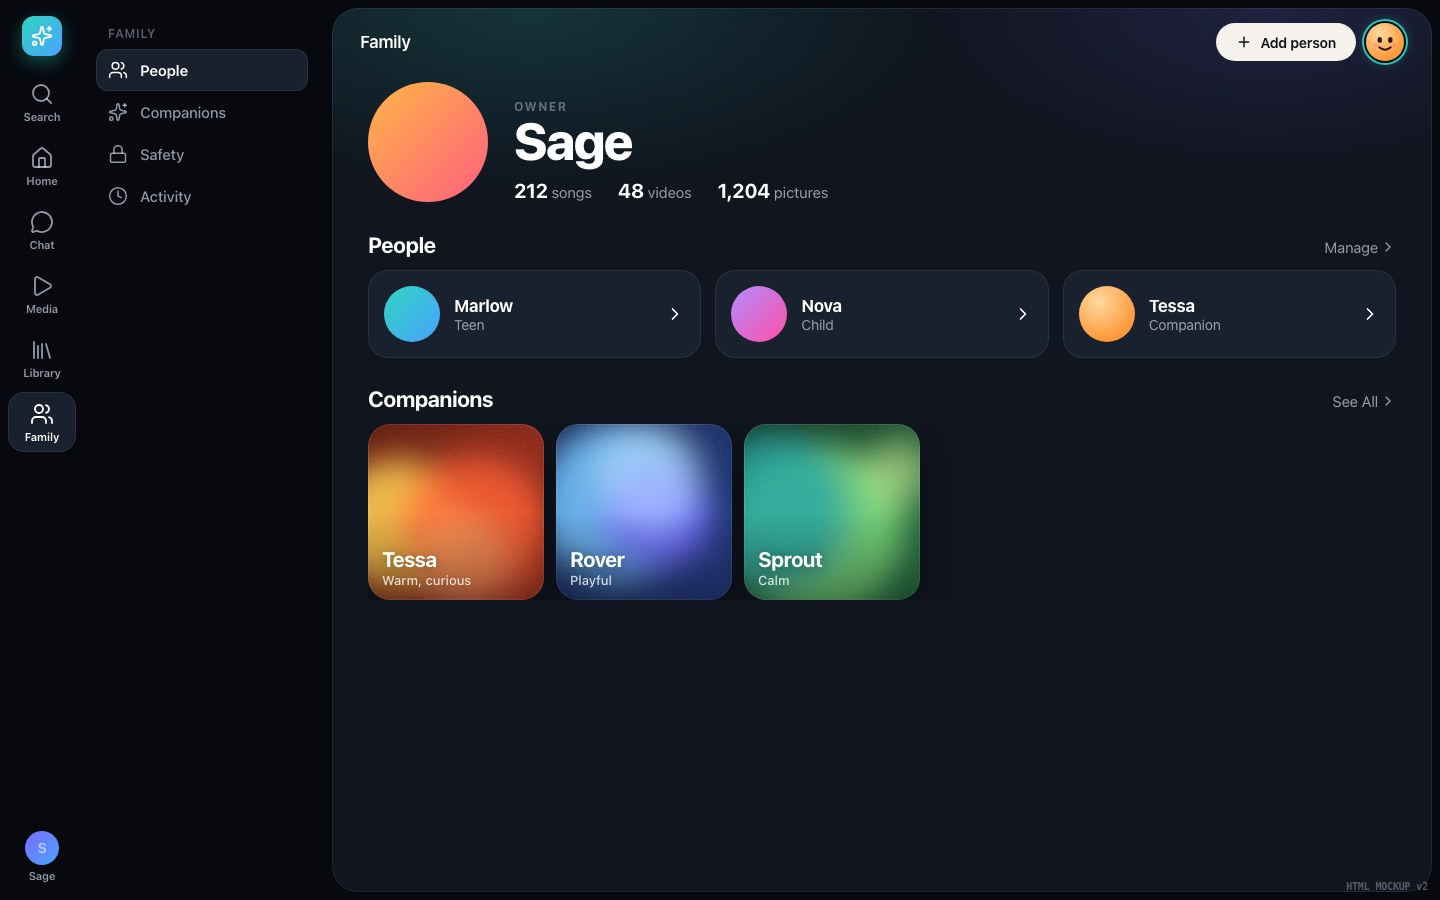
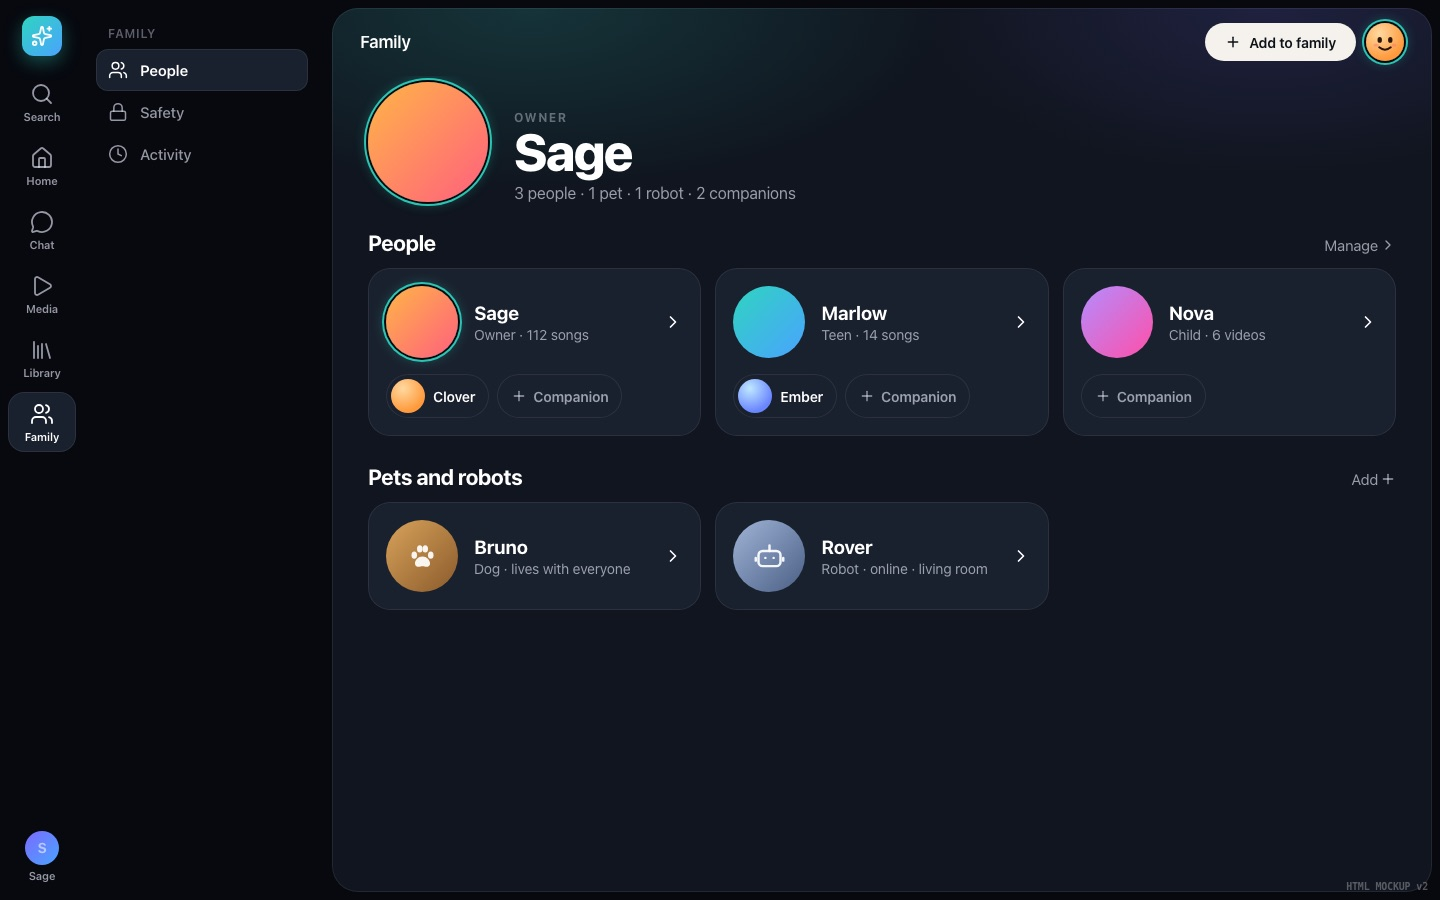
PRO-LOOK-01: Family page lists companions under their member; pets and robots are family

diff --git a/docs/design/assets/pro-look-2026-11-08/build.py b/docs/design/assets/pro-look-2026-11-08/build.py
@@ -545,7 +545,7 @@ write('phone-notifications',phone(body))
 print('create ok')
 
 # ---------- PROFILE + FAMILY (Instagram / TikTok style profile pages) 2026-11-08
-GR={'Sage':'linear-gradient(135deg,#ffb547,#ff5f7e)','Marlow':'linear-gradient(135deg,#2fd4c0,#4aa3ff)','Nova':'linear-gradient(135deg,#b48cff,#ff4fa8)','Tessa':'radial-gradient(circle at 35% 28%,#ffd9a0,#ff9a3c 70%)'}
+GR={'Sage':'linear-gradient(135deg,#ffb547,#ff5f7e)','Marlow':'linear-gradient(135deg,#2fd4c0,#4aa3ff)','Nova':'linear-gradient(135deg,#b48cff,#ff4fa8)','Clover':'radial-gradient(circle at 35% 28%,#ffd9a0,#ff9a3c 70%)'}
 def pav(n,size,ring=False):
     return f'<div class="av {"ring" if ring else ""}" style="width:{size}px;height:{size}px;background:{GR[n]}"></div>'
 def stat(n,l,big=False):
@@ -566,7 +566,7 @@ body=f'''<div class="scroll" style="padding-bottom:110px"><div style="display:fl
 <div style="display:flex;gap:22px;align-items:center;margin-top:14px">{pav("Marlow",92,True)}<div style="flex:1"><div style="font-size:12px;font-weight:700;letter-spacing:.12em;color:var(--fg3)">TEEN</div><div style="display:flex;justify-content:space-between;margin-top:8px">{stat("14","songs")}{stat("9","videos")}{stat("62","pictures")}</div></div></div>
 <div style="margin-top:14px;font-size:15px;color:var(--fg2);line-height:1.4">Makes beats after school. Likes rainy porch songs and slow mornings.</div>
 <div style="display:flex;gap:10px;margin-top:16px"><div class="pill inv" style="flex:1;justify-content:center;height:44px;font-size:16px">Edit profile</div><div class="pill q" style="flex:1;justify-content:center;height:44px;font-size:16px">Share</div><div class="pill q" style="width:48px;height:44px;justify-content:center;padding:0">{ic("settings",20,1.9)}</div></div>
-<div class="strip" style="margin-top:20px;gap:6px">{hl("Tessa","ember",301)}{hl("Favorites","violet",302)}{hl("Porch","forest",303)}{hl("School","ocean",304)}{hl("New","slate",305)}</div>
+<div class="strip" style="margin-top:20px;gap:6px">{hl("Clover","ember",301)}{hl("Favorites","violet",302)}{hl("Porch","forest",303)}{hl("School","ocean",304)}{hl("New","slate",305)}</div>
 {tabs(["grid-2x2","play","music","users"],0)}
 <div style="margin:0 -16px">{grid(3,12)}</div></div>{tabbar("Family",(('house','Home'),('message-circle','Chat'),('play','Media'),('library','Library'),('users','Family')))}'''
 write('phone-profile',phone(body))
@@ -586,8 +586,42 @@ inner=f'''{rail("Family")}{col("FAMILY",[("users","People"),("sparkles","Compani
 <div style="display:flex;gap:44px;margin-top:14px">{stat("14","songs",True)}{stat("9","videos",True)}{stat("62","pictures",True)}</div>
 <div style="margin-top:14px;font-size:16px;color:var(--fg2);max-width:560px;line-height:1.45">Makes beats after school. Likes rainy porch songs and slow mornings.</div>
 <div style="display:flex;gap:10px;margin-top:18px"><span class="pill inv" style="height:44px;padding:0 24px">Edit profile</span><span class="pill q" style="height:44px;padding:0 24px">Share</span><span class="pill q" style="height:44px;width:48px;justify-content:center;padding:0">{ic("settings",20,1.9)}</span></div></div></div>
-<div style="display:flex;gap:10px;margin-top:26px">{hl("Tessa","ember",301,72)}{hl("Favorites","violet",302,72)}{hl("Porch","forest",303,72)}{hl("School","ocean",304,72)}</div>
+<div style="display:flex;gap:10px;margin-top:26px">{hl("Clover","ember",301,72)}{hl("Favorites","violet",302,72)}{hl("Porch","forest",303,72)}{hl("School","ocean",304,72)}</div>
 {tabs(["grid-2x2","play","music","users"],0)}
 <div style="margin-top:3px;width:100%">{grid(5,10)}</div></div></div>'''
 write('desktop-profile',win(inner))
 print('profile ok')
+
+# ---------- FAMILY v2: companions live under the member who has them; pets and robots are family (2026-11-08)
+GR['Bruno']='linear-gradient(135deg,#d9a35b,#8a5a2b)'; GR['Rover']='linear-gradient(135deg,#9fb4d6,#4b5f86)'; GR['Ember']='radial-gradient(circle at 35% 28%,#bfe8ff,#6a86ff 70%)'
+PAW='<svg width="{s}" height="{s}" viewBox="0 0 24 24" fill="currentColor"><ellipse cx="6" cy="11" rx="2" ry="2.6"/><ellipse cx="10" cy="6.5" rx="2" ry="2.6"/><ellipse cx="14" cy="6.5" rx="2" ry="2.6"/><ellipse cx="18" cy="11" rx="2" ry="2.6"/><path d="M12 12c-3 0-5.5 2.6-5.5 5 0 1.6 1.3 2.5 2.7 2.5 1 0 1.7-.5 2.8-.5s1.8.5 2.8.5c1.4 0 2.7-.9 2.7-2.5 0-2.4-2.5-5-5.5-5z"/></svg>'
+BOT='<svg width="{s}" height="{s}" viewBox="0 0 24 24" fill="none" stroke="currentColor" stroke-width="1.8" stroke-linecap="round" stroke-linejoin="round"><rect x="4" y="8" width="16" height="11" rx="3"/><path d="M12 8V4M9 13h.01M15 13h.01M2 13v2M22 13v2"/></svg>'
+def kindav(n,kind,size):
+    glyph=(PAW if kind=='pet' else BOT).format(s=int(size*.46))
+    return f'<div class="av" style="width:{size}px;height:{size}px;background:{GR[n]};display:flex;align-items:center;justify-content:center;color:rgba(255,255,255,.92)">{glyph}</div>'
+def cchip(n,sz=34):
+    return f'<div style="display:flex;align-items:center;gap:8px;height:44px;border-radius:999px;padding:0 14px 0 5px;background:var(--s2);box-shadow:inset 0 0 0 1px var(--hair);font-size:14px;font-weight:600;flex:none"><div class="av" style="width:{sz}px;height:{sz}px;background:{GR[n]}"></div>{n}</div>'
+def addc(): return f'<div style="display:flex;align-items:center;gap:6px;height:44px;border-radius:999px;padding:0 14px;color:var(--fg2);font-size:14px;font-weight:600;box-shadow:inset 0 0 0 1px var(--hair);flex:none">{ic("plus",16,2)}Companion</div>'
+def member(n,role,stat,comps,ring=False,kind=None,wide=False):
+    av=kindav(n,kind,64) if kind else pav(n,64,ring)
+    cs=''.join(cchip(c) for c in comps)+(addc() if not kind else '')
+    if kind and not comps: cs=''
+    cr=f'<div style="display:flex;gap:8px;margin-top:14px;flex-wrap:wrap">{cs}</div>' if cs else ''
+    return f'<div style="background:var(--s1);box-shadow:inset 0 0 0 1px var(--hair);padding:14px;border-radius:22px;margin-bottom:10px"><div style="display:flex;gap:14px;align-items:center">{av}<div style="flex:1;min-width:0"><b style="font-size:18px">{n}</b><div style="font-size:14px;color:var(--fg2);margin-top:2px">{role} · {stat}</div></div>{ic("chevron-right",20,2)}</div>{cr}</div>'
+TAB=(('house','Home'),('message-circle','Chat'),('play','Media'),('library','Library'),('users','Family'))
+body=f'''<div class="scroll" style="padding-bottom:110px"><div style="display:flex;justify-content:space-between;align-items:center;height:44px"><div class="circ glass">{ic("panel-left",22,1.8)}</div><div style="display:flex;gap:10px;align-items:center"><div class="circ glass">{ic("plus",22,2)}</div>{companion(36)}</div></div>
+<h1 class="t" style="margin-top:14px">Family</h1><div style="color:var(--fg2);font-size:16px;margin-top:4px">3 people · 1 pet · 1 robot · 2 companions</div>
+<div class="strip" style="margin-top:20px;gap:8px;padding:4px 0 4px 4px">{"".join(f'<div style="text-align:center;width:84px;flex:none">{pav(n,68,n=="Sage")}<div style="font-size:14px;font-weight:600;margin-top:8px">{n}</div></div>' for n in ["Sage","Marlow","Nova"])}<div style="text-align:center;width:84px;flex:none">{kindav("Bruno","pet",68)}<div style="font-size:14px;font-weight:600;margin-top:8px">Bruno</div></div><div style="text-align:center;width:84px;flex:none">{kindav("Rover","bot",68)}<div style="font-size:14px;font-weight:600;margin-top:8px">Rover</div></div></div>
+<div class="sh"><h2>People</h2><a>Manage {ic("chevron-right",16,2)}</a></div>{member("Sage","Owner","112 songs",["Clover"],True)}{member("Marlow","Teen","14 songs",["Ember"])}{member("Nova","Child","6 videos",[])}
+<div class="sh"><h2>Pets and robots</h2><a>Add {ic("plus",16,2)}</a></div>{member("Bruno","Dog","lives with everyone",[],kind="pet")}{member("Rover","Robot","online · living room",[],kind="bot")}</div>{tabbar("Family",TAB)}'''
+write('phone-family',phone(body))
+def dmember(n,role,stat,comps,ring=False,kind=None):
+    av=kindav(n,kind,72) if kind else pav(n,72,ring)
+    cs=''.join(cchip(c) for c in comps)+(addc() if not kind else '')
+    return f'<div class="card" style="padding:18px;border-radius:22px"><div style="display:flex;gap:16px;align-items:center">{av}<div style="flex:1"><b style="font-size:19px">{n}</b><div style="font-size:14px;color:var(--fg2);margin-top:2px">{role} · {stat}</div></div>{ic("chevron-right",20,2)}</div>'+(f'<div style="display:flex;gap:8px;margin-top:16px;flex-wrap:wrap">{cs}</div>' if (cs and not kind) else '')+'</div>'
+inner=f'''{rail("Family")}{col("FAMILY",[("users","People"),("lock","Safety"),("clock","Activity")],"People")}<div class="panel" style="left:332px"><div class="glow"></div><div class="hdr"><div class="ttl">Family</div><div class="btns"><span class="pill inv" style="height:38px;font-size:14px">{ic("plus",16,2.2)}Add to family</span>{companion(38)}</div></div><div style="padding:0 36px;position:absolute;top:68px;left:0;right:0;bottom:0;overflow:hidden">
+<div style="display:flex;gap:26px;align-items:flex-end;margin-top:6px">{pav("Sage",120,True)}<div><div style="font-size:12px;font-weight:700;letter-spacing:.12em;color:var(--fg3)">OWNER</div><h1 style="font-size:52px;font-weight:800;letter-spacing:-.035em;line-height:1.05">Sage</h1><div style="color:var(--fg2);font-size:16px;margin-top:4px">3 people · 1 pet · 1 robot · 2 companions</div></div></div>
+<div class="sh" style="margin:28px 0 12px"><h2>People</h2><a>Manage {ic("chevron-right",16,2)}</a></div><div style="display:grid;grid-template-columns:repeat(3,1fr);gap:14px">{dmember("Sage","Owner","112 songs",["Clover"],True)}{dmember("Marlow","Teen","14 songs",["Ember"])}{dmember("Nova","Child","6 videos",[])}</div>
+<div class="sh" style="margin:28px 0 12px"><h2>Pets and robots</h2><a>Add {ic("plus",16,2)}</a></div><div style="display:grid;grid-template-columns:repeat(3,1fr);gap:14px">{dmember("Bruno","Dog","lives with everyone",[],kind="pet")}{dmember("Rover","Robot","online · living room",[],kind="bot")}</div></div></div>'''
+write('desktop-family',win(inner))
+print('family v2 ok')

diff --git a/docs/design/PRO-LOOK-01.md b/docs/design/PRO-LOOK-01.md
@@ -876,9 +876,12 @@ and the 16 pt gutter, 34 to 40 pt titles and flat surfaces of sections 4 and 5.
   to the name on desktop. One line of bio, then Edit profile (inverse pill), Share and Settings (quiet pills). A row of round highlights
   (the person's companions, favorites and collections). A four-icon tab strip (all, videos, songs, with family) and an edge-to-edge
   three-column grid on phone (five on desktop) of the person's own creations, square, 2 pt gaps, a corner badge for video and song.
-- **Family page** (`phone-family`; desktop stays `desktop-family`): the household title with a one-line count, a strip of round avatars
-  with an Add tile, a People section of flat cards (avatar, name, role and one count, chevron), the Companions shelf, and a
-  "Shared with everyone" grid.
+- **Family page** (`phone-family`, `desktop-family`): the household title with a one-line count (people, pets, robots, companions), a strip of
+  round avatars (people, then pets, then robots), a People section of flat cards (avatar, name, role, one count, chevron) and a
+  Pets and robots section of the same cards (a paw or robot glyph on the avatar, "lives with everyone" or "online, living room").
+  **Companions are not a separate shelf: each companion appears as a chip inside the card of the family member who has it, with a
+  "Companion" add chip** (Jesse, 2026-11-08). Pets and robots are family members in their own right; a robot is the bot that pairs
+  with the hub (org products table). The old Companions entry in the Family side column goes; a companion's page opens from its chip.
 - **Rules that still hold:** what a teen or child profile shows follows the existing age and surface gates (a parent-set view of a teen is
   limited to what P4a allows; teen settings stay private); the grid uses the kit media shelf and tiles, never a Home wrapper; the counts
   and grid read from existing library records. Slice: PRO-LOOK-SETTINGS-01 gains a sub-slice FAMILY-PROFILE-01 (person profile route
